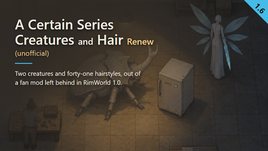
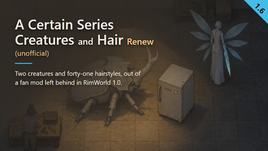
Preview: the scene sits 20 pixels lower, so the title stops covering the beetle
The text block stays top-left, as the style guide prefers when that zone
is free. The bottom-right was tried first and is worse: it hides the
propagator and the veil dims the seraph. What was wrong with the top-left
was the crop, which put the beetle's head and horn under the summary. The
image offset goes from -50 to -30 px.

Going further is blocked by the guide's own rule, and it was measured: at
offset 0 the summary drops to 4.06:1 over the lit top of the carapace,
against a floor of 4.5:1. At -30 the minimums are 6.03 title, 11.01 "and",
4.63 "Renew", 9.04 tag and 4.63 summary. A heavier veil would buy the
last 30 px and put the beetle back in the dark.

Playwright is not installed here, so the page was rendered by driving
Chrome directly, with the same page, the same background-only pass with the
text hidden, and the same threshold as Art/render-preview.cjs. The font
check that script makes through the DevTools protocol was not repeated: the
page and the machine are the same as the previous render.

579218 bytes, 896x504; the 268 px check still reads.

diff --git a/Art/Preview-text.html b/Art/Preview-text.html
@@ -1,7 +1,7 @@
 <!doctype html><html lang="en"><meta charset="utf-8"><title>Preview</title>
 <style>
 *{box-sizing:border-box;margin:0;padding:0}html,body{width:896px;height:504px;overflow:hidden}body{font-family:"Segoe UI",system-ui,sans-serif}
-.frame{position:relative;width:896px;height:504px;overflow:hidden;background:url('Preview.png') 0 -50px / 896px auto no-repeat}
+.frame{position:relative;width:896px;height:504px;overflow:hidden;background:url('Preview.png') 0 -30px / 896px auto no-repeat}
 .shade{position:absolute;inset:0;background:radial-gradient(ellipse 950px 640px at top left,rgba(var(--veilRGB),.94) 0%,rgba(var(--veilRGB),.90) 48%,rgba(var(--veilRGB),0) 100%)}
 .text{position:absolute;left:50px;top:54px;text-shadow:0 3px 10px rgba(0,0,0,.75)}
 h1{font-size:46px;font-weight:600;line-height:1.1;letter-spacing:0;color:var(--inkPrimary)}
